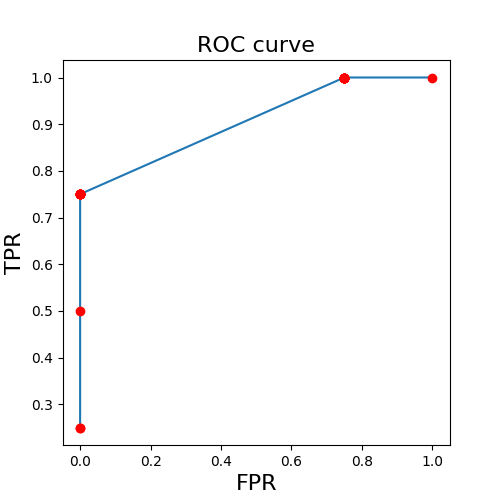
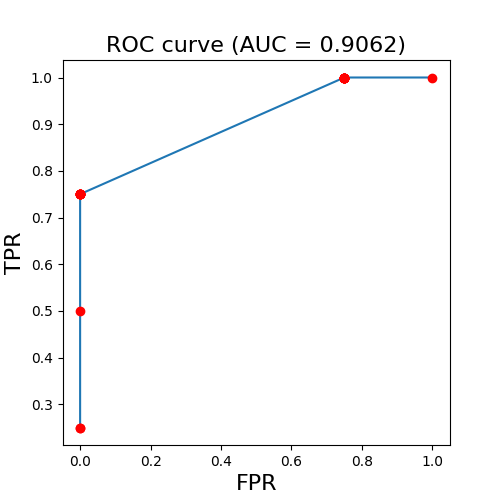
homework

Changed region(s): [[0.21, 0.06, 0.81, 0.12]]

diff --git a/第一次作业-PR、ROC、AUC/ROC-未调.py b/第一次作业-PR、ROC、AUC/ROC-未调.py
@@ -1,5 +1,6 @@
 import matplotlib.pyplot as plt
 import numpy as np
+from sklearn.metrics import auc  # 用来算AUC
 
 plt.switch_backend('TkAgg')
 
@@ -10,6 +11,7 @@ recall =[]
 precision =[]
 TPR =[]
 FPR =[]
+
 for a in aa:
     tp = 0
     fn = 0
@@ -27,20 +29,26 @@ for a in aa:
             fp = fp +1
         elif( p[0] == 'F') and (p[1]<a):
             tn =tn + 1
+
     x = float(tp)/float(tp+fn)
     y = float(tp)/float(tp+fp) if (tp+fp) > 0 else 0.0
     fpr =float(fp)/float(fp+tn) if (fp+tn) > 0 else 0.0
 
-    recall .append(x)
-    precision .append(y)
+    recall.append(x)
+    precision.append(y)
     TPR.append(x)
     FPR.append(fpr)
 
+
+auc_score = auc(FPR, TPR)
+print(f"AUC = {auc_score:.4f}")  # 控制台输出
+
+
 plt.close('all')
-plt.figure(figsize =(5,5))
-plt.title('ROC curve',fontsize=16)
-plt.plot(FPR,TPR)
-plt.plot(FPR,TPR, 'ro')
+plt.figure(figsize=(5,5))
+plt.title(f'ROC curve (AUC = {auc_score:.4f})', fontsize=16)
+plt.plot(FPR, TPR)
+plt.plot(FPR, TPR, 'ro')
 plt.xlabel('FPR', fontsize=16)
 plt.ylabel('TPR', fontsize=16)
 plt.show()
